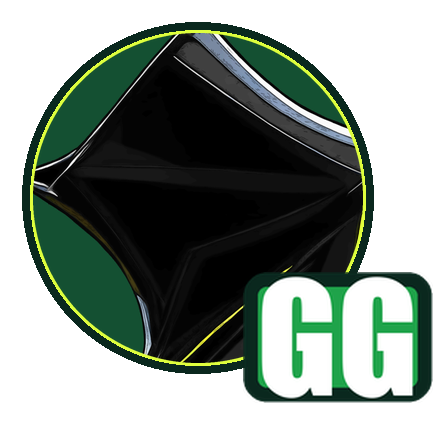
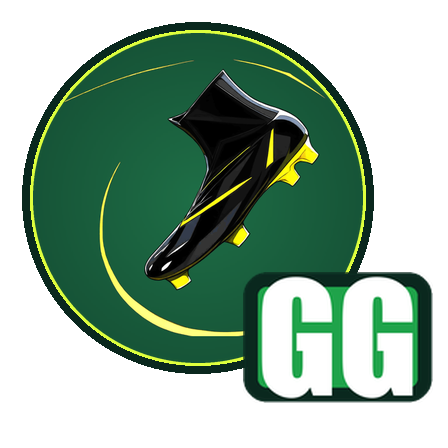
Added emotes

Changed region(s): [[0.0625, 0.0625, 0.8125, 0.8125], [0.1562, 0.1875, 0.2188, 0.2188], [0.6875, 0.1875, 0.7188, 0.2188]]

diff --git a/index.html b/index.html
@@ -7638,12 +7638,12 @@
       <a class="proj-btn" href="images/twitch/Tessel/Emotes/boot_up_448.png?v=c7bb62d0" target="_blank" rel="noopener" title="Twitch emote: Tessel boot up">Tessel boot up</a>
       <a class="proj-btn" href="images/twitch/Tessel/Emotes/cheer_448.png?v=0bd7fab7" target="_blank" rel="noopener" title="Twitch emote: Tessel cheer">Tessel cheer</a>
       <a class="proj-btn" href="images/twitch/Tessel/Emotes/corner_flag_448.png?v=4e5dfb83" target="_blank" rel="noopener" title="Twitch emote: Tessel corner flag">Tessel corner flag</a>
-      <a class="proj-btn" href="images/twitch/Tessel/Emotes/gg_pitch_448.png?v=036c0189" target="_blank" rel="noopener" title="Twitch emote: Tessel gg pitch">Tessel gg pitch</a>
+      <a class="proj-btn" href="images/twitch/Tessel/Emotes/gg_pitch_448.png?v=92d5471a" target="_blank" rel="noopener" title="Twitch emote: Tessel gg pitch">Tessel gg pitch</a>
       <a class="proj-btn" href="images/twitch/Tessel/Emotes/goal_448.gif?v=5172531b" target="_blank" rel="noopener" title="Twitch emote: Tessel goal">Tessel goal (animated)</a>
       <a class="proj-btn" href="images/twitch/Tessel/Emotes/red_card_448.gif?v=3dfa83d7" target="_blank" rel="noopener" title="Twitch emote: Tessel red card">Tessel red card (animated)</a>
-      <a class="proj-btn" href="images/twitch/Tessel/Emotes/tired_legs_448.gif?v=589d2033" target="_blank" rel="noopener" title="Twitch emote: Tessel tired legs">Tessel tired legs (animated)</a>
+      <a class="proj-btn" href="images/twitch/Tessel/Emotes/tired_legs_448.gif?v=ba076124" target="_blank" rel="noopener" title="Twitch emote: Tessel tired legs">Tessel tired legs (animated)</a>
       <a class="proj-btn" href="images/twitch/Tessel/Emotes/trophy_tessel_448.png?v=cce7d810" target="_blank" rel="noopener" title="Twitch emote: Tessel trophy tessel">Tessel trophy tessel</a>
-      <a class="proj-btn" href="images/twitch/Tessel/Emotes/whistle_448.png?v=480b5860" target="_blank" rel="noopener" title="Twitch emote: Tessel whistle">Tessel whistle</a>
+      <a class="proj-btn" href="images/twitch/Tessel/Emotes/whistle_448.png?v=830151f7" target="_blank" rel="noopener" title="Twitch emote: Tessel whistle">Tessel whistle</a>
     </div>
         <h3 class="gallery-title">Hype emotes</h3>
         <div class="btn-grid">
@@ -7657,7 +7657,7 @@
       <a class="proj-btn" href="images/twitch/Slash/Emotes/hype_448.gif?v=66b1ecad" target="_blank" rel="noopener" title="Twitch hype emote: Slash hype">Slash hype (animated)</a>
       <a class="proj-btn" href="images/twitch/Snake/Emotes/hype_448.gif?v=06b08e66" target="_blank" rel="noopener" title="Twitch hype emote: Snake hype">Snake hype (animated)</a>
       <a class="proj-btn" href="images/twitch/Strikeline/Emotes/hype_448.gif?v=cc125b75" target="_blank" rel="noopener" title="Twitch hype emote: Strikeline hype">Strikeline hype (animated)</a>
-      <a class="proj-btn" href="images/twitch/Tessel/Emotes/hype_448.gif?v=a280b3be" target="_blank" rel="noopener" title="Twitch hype emote: Tessel hype">Tessel hype (animated)</a>
+      <a class="proj-btn" href="images/twitch/Tessel/Emotes/hype_448.gif?v=8b42bf95" target="_blank" rel="noopener" title="Twitch hype emote: Tessel hype">Tessel hype (animated)</a>
     </div>
         <h3 class="gallery-title">Tier 1 emotes</h3>
         <div class="btn-grid">

diff --git a/tools/make_sets.py b/tools/make_sets.py
@@ -111,11 +111,13 @@ def portrait(kind, C):
         patch = ((255, 236, 236), 0.55, 0.0, 0.0, 0.8, 0.66)
     elif kind == "football":
         src = Image.open(DL / "assets" / "Footballboot.png").convert("RGBA")
-        im = _crop_circle(src, 2250, 1100, 700, px)
-        base = Image.new("RGBA", (px, px), (20, 80, 50, 255))
-        base.alpha_composite(im)
+        src = src.crop(src.split()[3].point(lambda v: 255 if v > 10 else 0).getbbox())
+        base = radial((px, px), (30, 110, 70), (10, 44, 32), cx=0.5, cy=0.5, spread=0.9).convert("RGBA")
+        k = px * 0.84 / max(src.size)
+        boot = src.resize((max(1, round(src.width * k)), max(1, round(src.height * k))), Image.LANCZOS)
+        base.alpha_composite(boot, ((px - boot.width) // 2, (px - boot.height) // 2))
         im = base
-        patch = ((240, 246, 240), 0.9, 0.0, 0.0, 0.72, 0.56)
+        patch = None
     else:
         im = None
         patch = None
